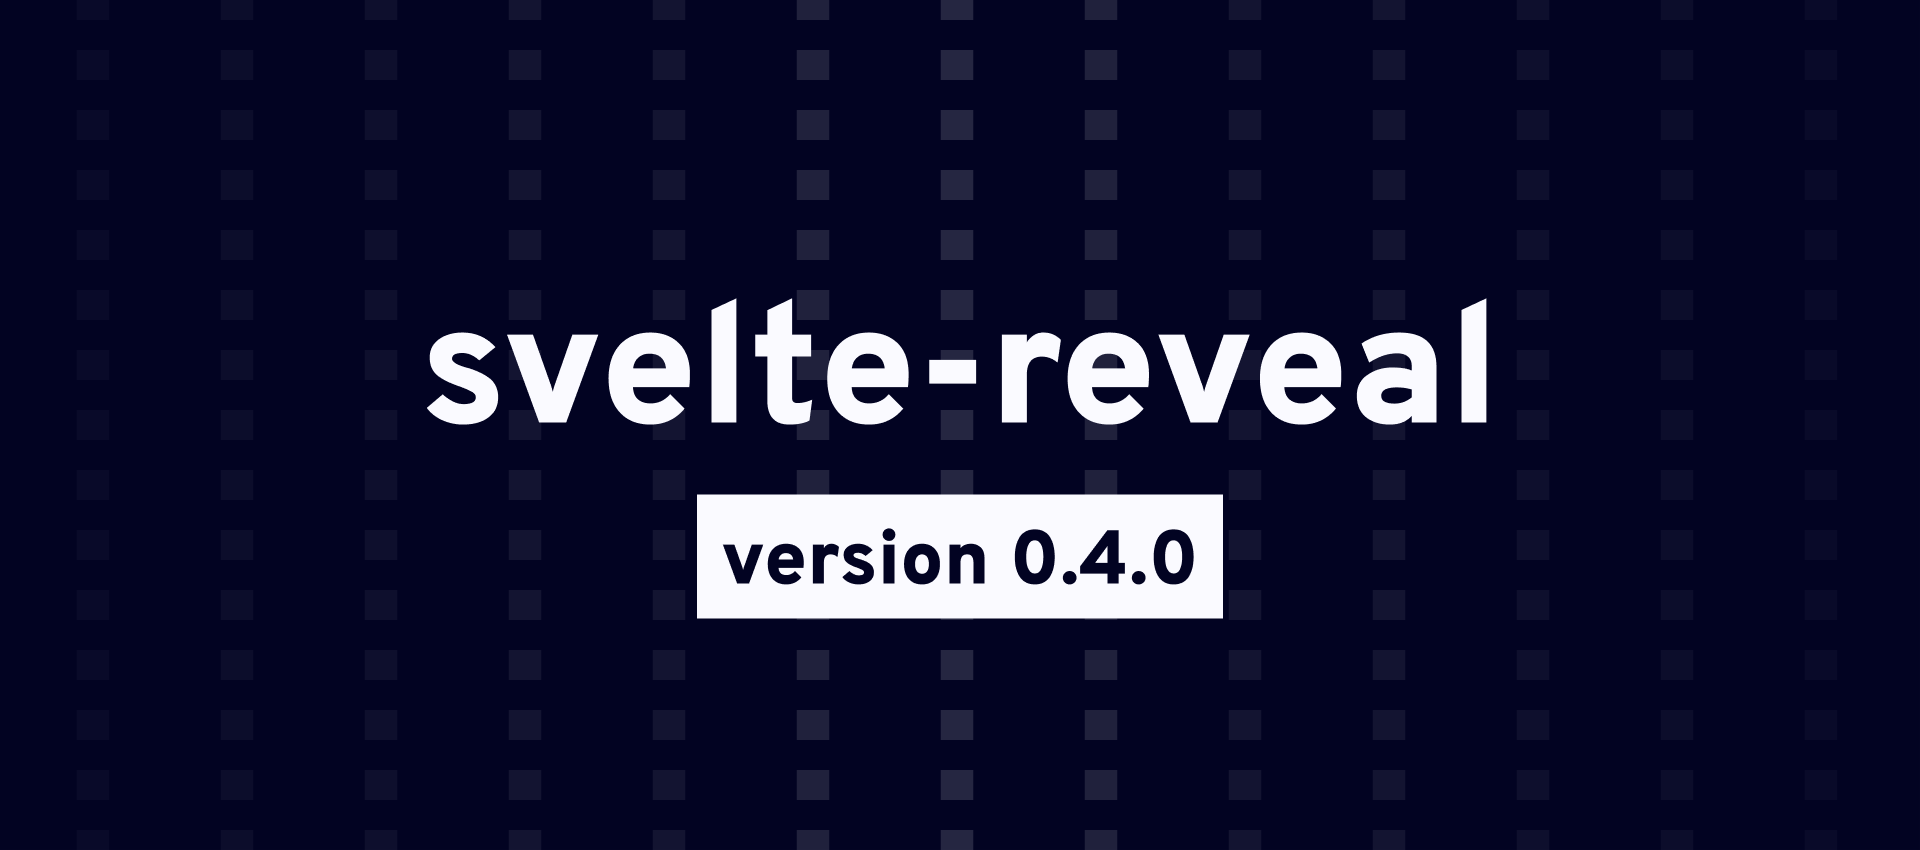
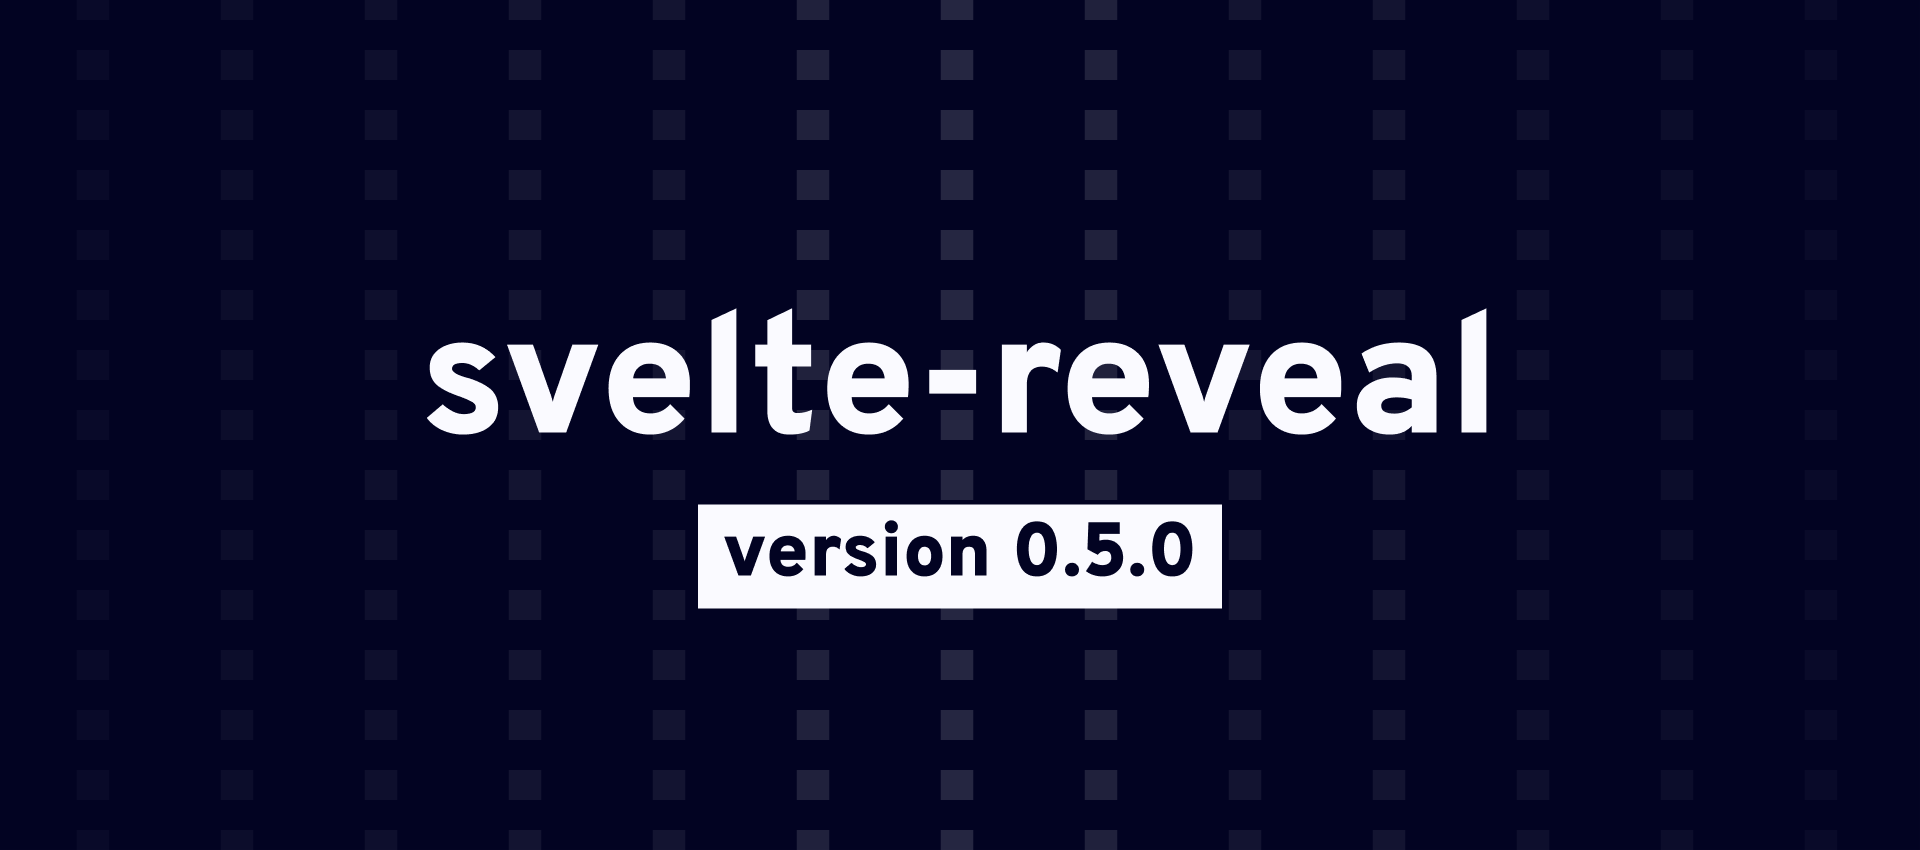
Prepared next release

diff --git a/CHANGELOG.md b/CHANGELOG.md
@@ -5,6 +5,10 @@ All notable changes to this project will be documented in this file.
 The format is based on [Keep a Changelog](https://keepachangelog.com/en/1.0.0/),
 and this project adheres to [Semantic Versioning](https://semver.org/spec/v2.0.0.html).
 
+## [0.5.0] - 2022-03-15
+### Changed
+- Documented how to use svelte-reveal with SvelteKit
+
 ## [0.4.0] - 2021-12-21
 ### Changed
 - Removed unused imports
